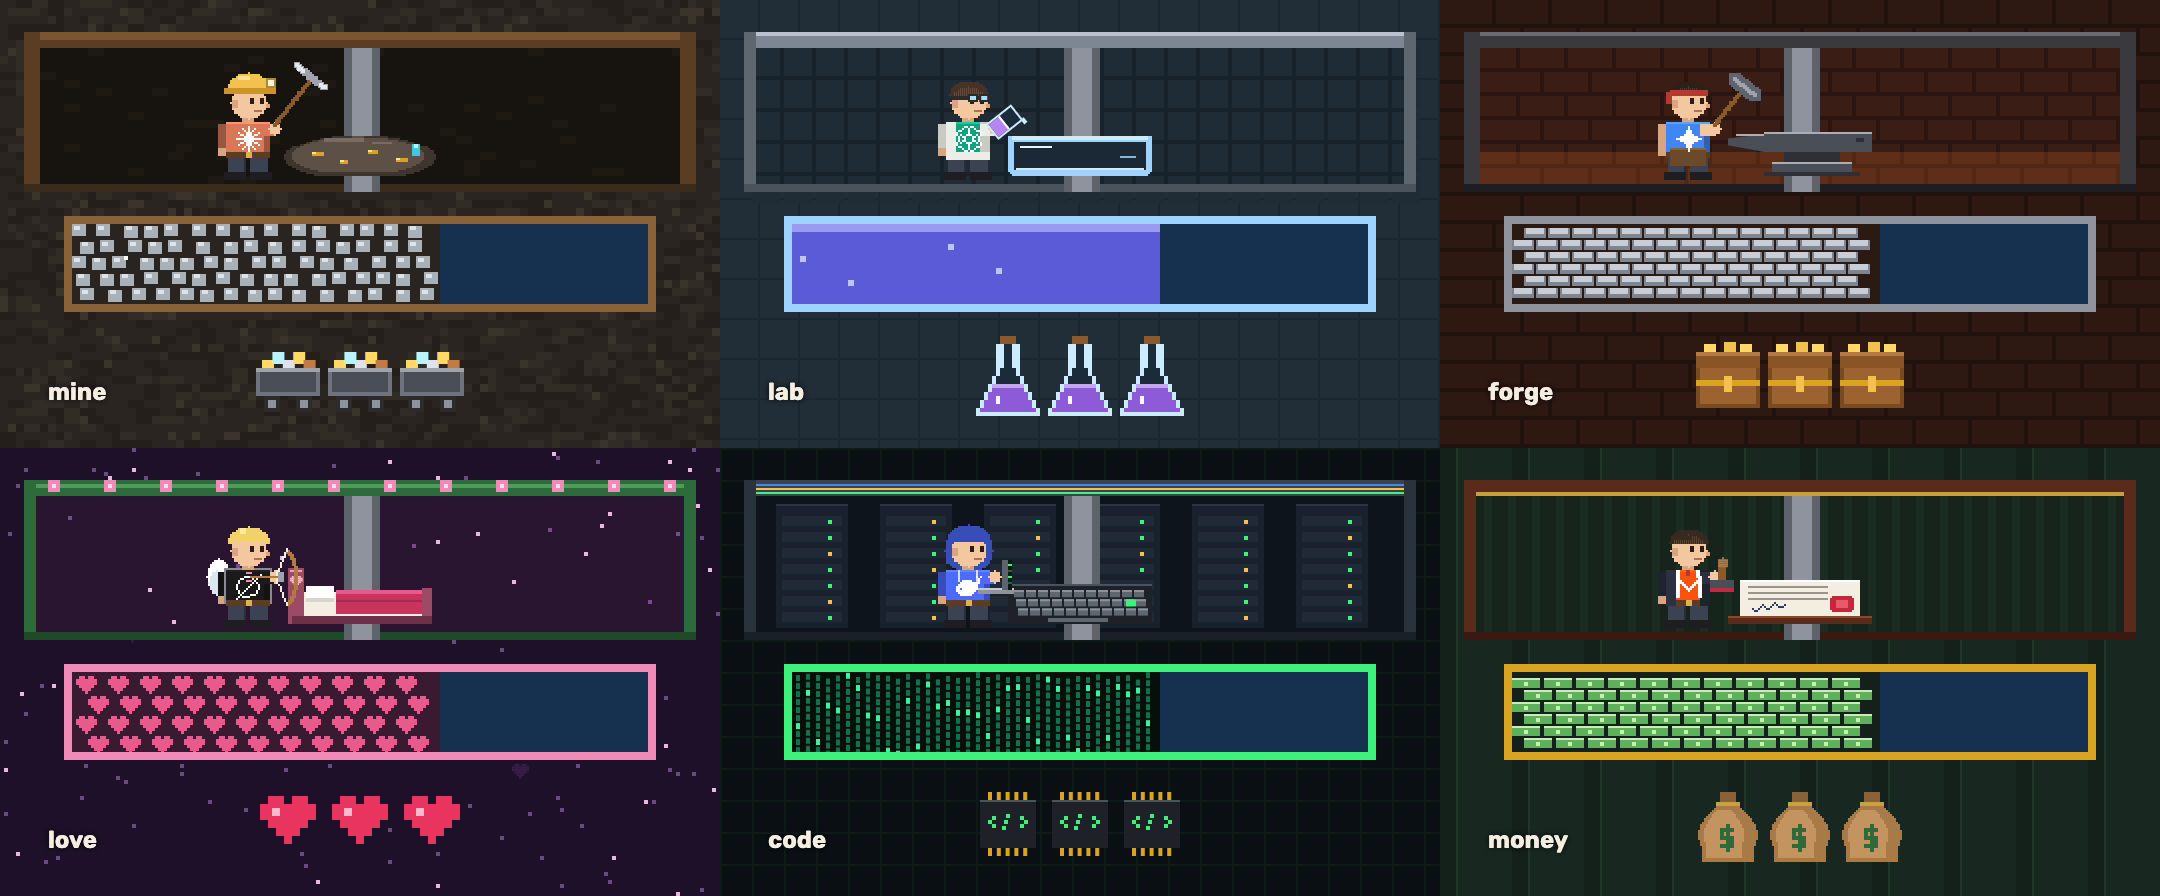
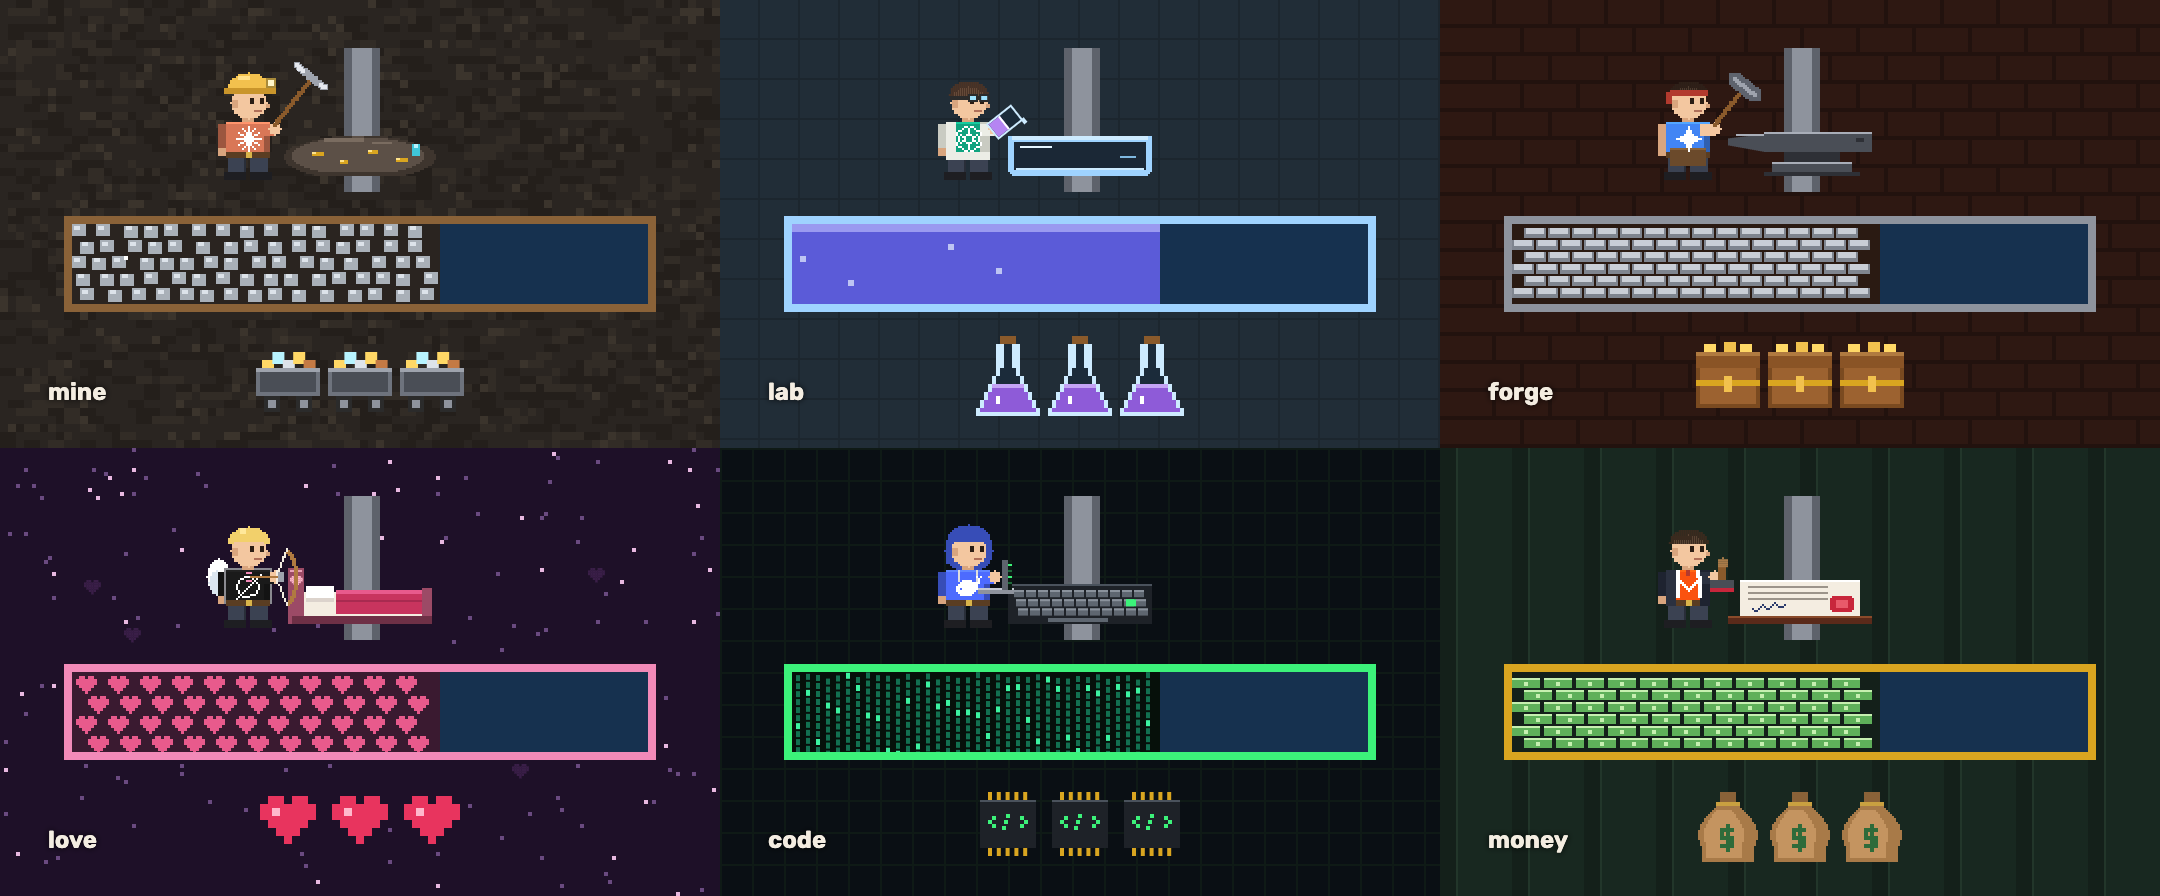
README pictures without agent rooms

diff --git a/tools/render-docs.js b/tools/render-docs.js
@@ -43,7 +43,7 @@ function agentsSheet() {
   return c;
 }
 
-// One tile per theme: zone with a working agent and its work piece, a tank, results.
+// One tile per theme: a working agent and its work piece in the open, a tank, results.
 function themesSheet() {
   const names = Object.keys(THEMES), K = 4, W = 180, Hh = 112, cols = 3;
   const [c, g] = canvas(cols * W * K, Math.ceil(names.length / cols) * Hh * K);
@@ -52,7 +52,6 @@ function themesSheet() {
     const th = THEMES[name], ox = (i % cols) * W, oy = Math.floor(i / cols) * Hh, r = rng(7 + i);
     g.setTransform(K, 0, 0, K, ox * K, oy * K);
     th.backdrop(g, 0, W, Hh, r);
-    th.zone(g, 8, 8, 164, 40, r);
     g.fillStyle = '#5E626B'; g.fillRect(86, 12, 9, 36);
     g.fillStyle = '#8E939D'; g.fillRect(88, 12, 5, 36);
     th.plate(g, 72, 33, 36, 11);

diff --git a/README.md b/README.md
@@ -72,7 +72,7 @@ To refresh the README pictures, open http://localhost:5173/tools/render-docs.htm
 
 - `src/data.js` — demo funnels and the agent list
 - `src/scene.js` — Canvas 2D scene: layout, simulation, gauges, hit areas
-- `src/themes.js` — themes: column backdrop, zone walls, work piece, tank filling, result item
+- `src/themes.js` — themes: column backdrop, work piece, tank filling, result item
 - `src/sprites.js` — agents (outfits, tools, logos) drawn from shapes on a half-unit grid
 - `src/dashboard.js` — page wiring: scaling, sticky titles, drag to reorder, popups, answers to agents
 - `src/main.js` — the demo; `src/live.js` — the person's funnels from the database, flows from the count history, live updates
